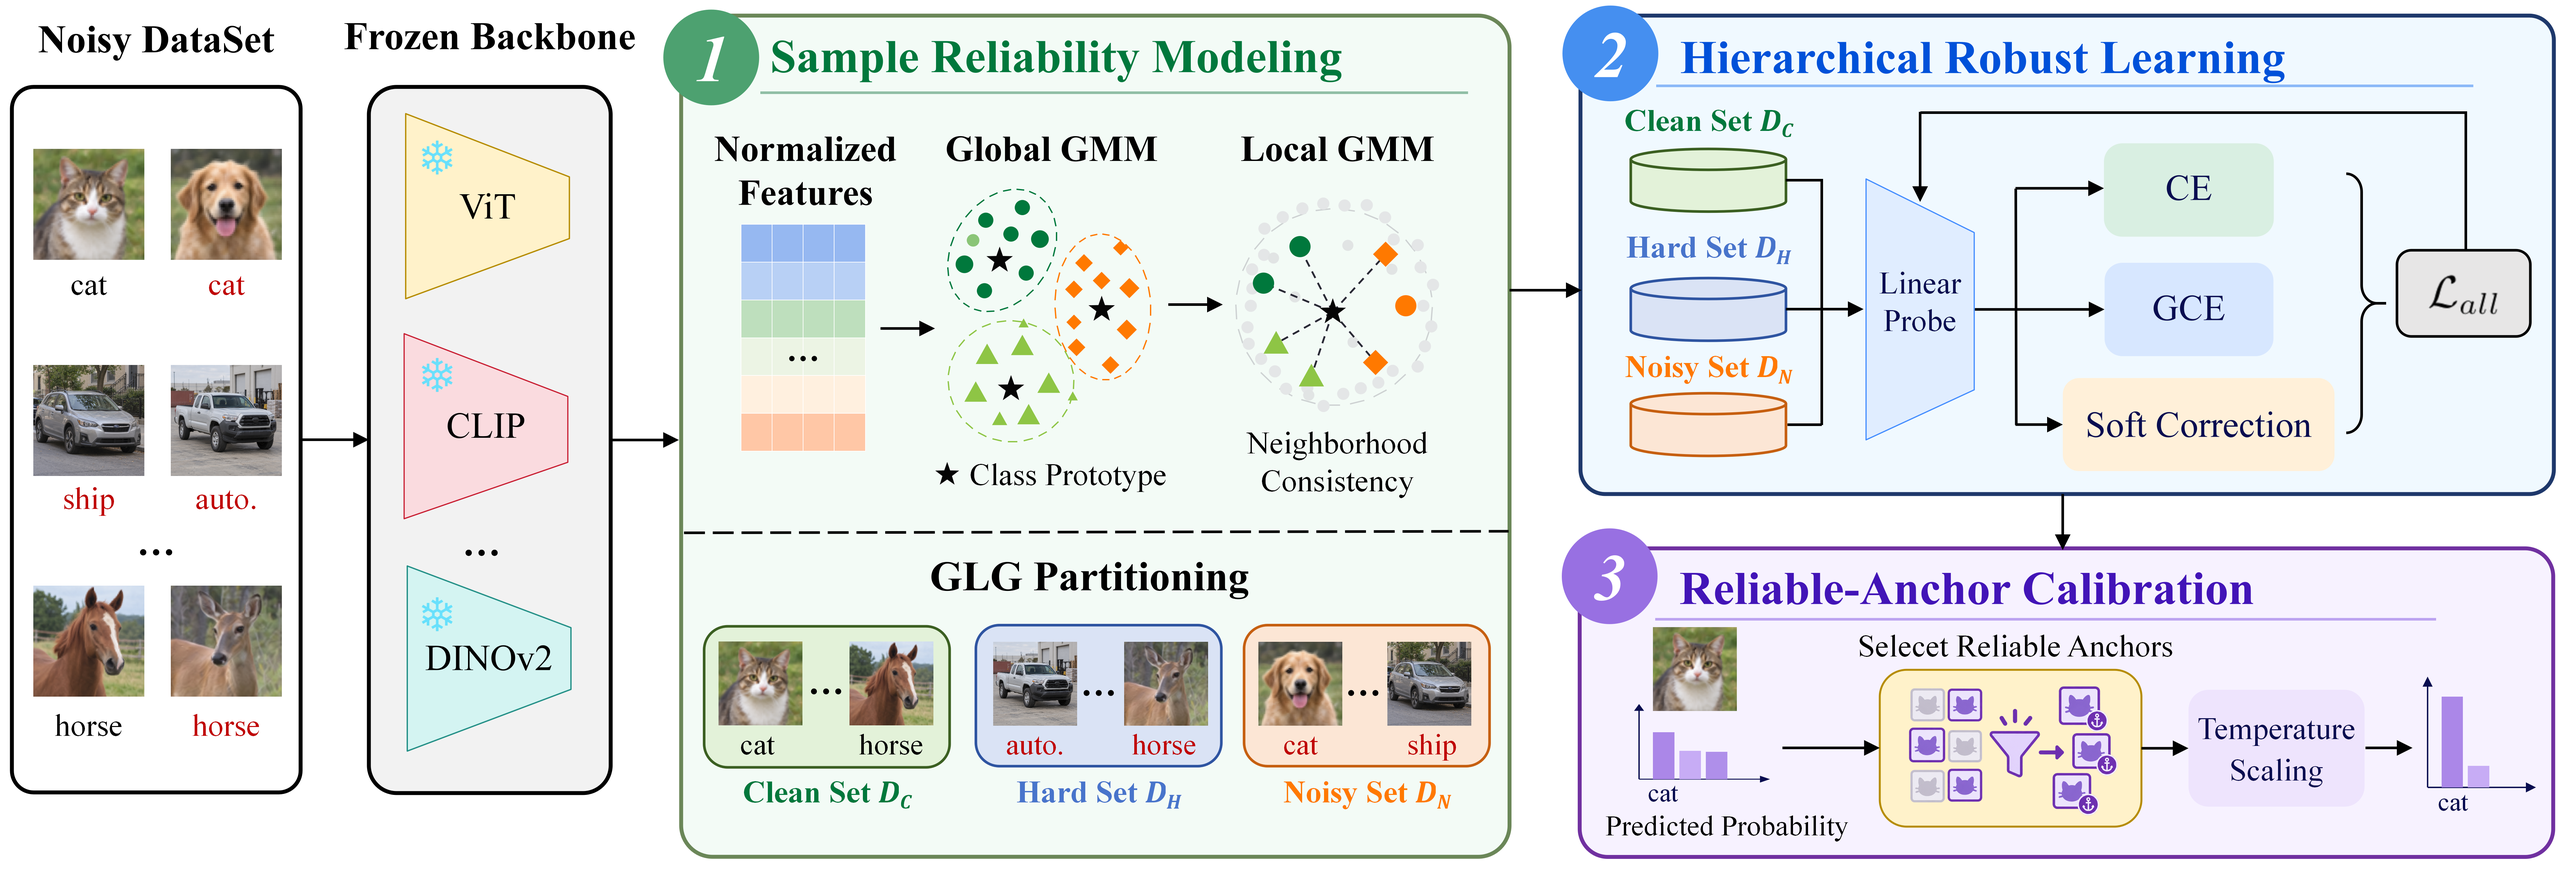
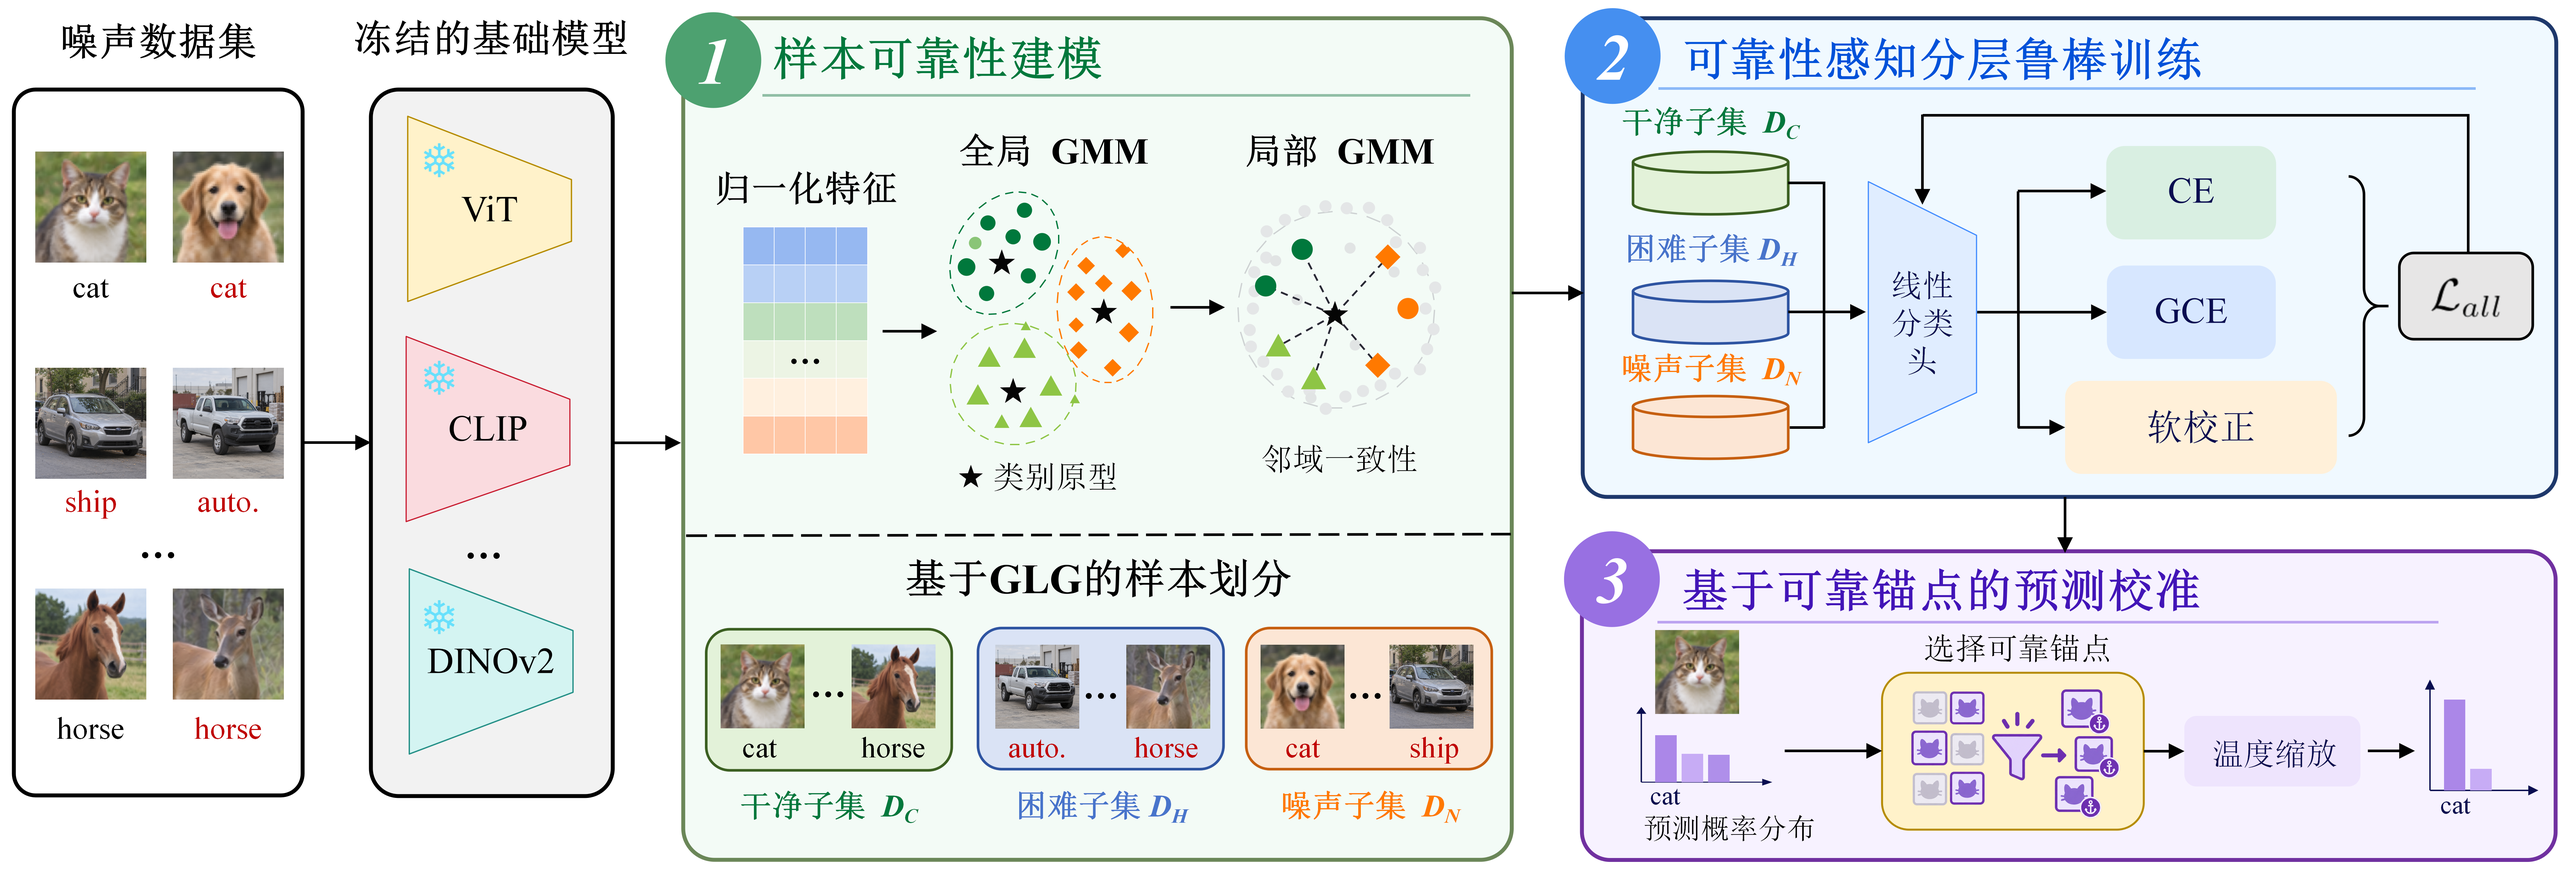
Update README for revised journal submission

diff --git a/README.md b/README.md
@@ -1,10 +1,10 @@
-# Learning with Noisy Labels in Foundation Model Settings via Sample Reliability Modeling
+# Reliability-Aware Learning with Noisy Labels in Foundation Model Settings
 
-Official PyTorch implementation of **FM-SRM**, a frozen-foundation-model framework for learning with noisy labels through sample reliability modeling.
+Official PyTorch implementation of **FM-SRM**, a reliability-aware method for learning with noisy labels in frozen foundation model settings.
 
 ## Abstract
 
-Label noise degrades data quality and model generalization, and learning with noisy labels (LNL) aims to mitigate the impact of incorrect supervision. With the development of pretrained foundation models, their stable and discriminative representations provide a new basis for LNL. However, most existing methods rely on end-to-end training dynamics on noisy data and are difficult to adapt directly to frozen foundation models, while existing foundation-model-based methods typically use coarse sample filtering and underexploit the reliability information in pretrained features. To address these issues, we propose a sample-reliability-based LNL method for foundation models that effectively exploits frozen pretrained features for efficient sample partitioning and robust training. First, global class relationships and local neighborhood structures are jointly exploited to hierarchically partition training samples into Clean, Hard, and Noisy subsets. Second, a lightweight linear classifier applies differentiated supervision according to sample reliability for robust utilization of different samples. Meanwhile, calibration anchors are constructed from highly reliable samples to further calibrate predictive probabilities. Theoretically, the method is analyzed from the perspectives of effective supervision bias and model learning error. Experiments across various foundation models and noise settings demonstrate stable noise detection and robust classification performance, validating the effectiveness and applicability of the proposed method.
+Label noise degrades the quality of training data for deep learning and impairs model generalization. Label-noise learning aims to mitigate the adverse effects of erroneous supervision during model training. With the rapid development of pretrained foundation models, frozen pretrained representations provide a relatively stable feature space for assessing sample reliability. However, most existing methods rely on end-to-end training with noisy data and are therefore difficult to directly adapt to scenarios with frozen foundation models. Existing foundation-model-based methods, meanwhile, often adopt relatively coarse sample selection strategies and do not fully exploit the reliability information embedded in pretrained representations. To address these limitations, we propose a reliability-aware label-noise learning method for foundation-model settings that integrates sample reliability estimation with differentiated robust learning and prediction calibration. First, in the frozen pretrained feature space, sample reliability is modeled using a global prototype margin and local neighborhood consistency, based on which the training samples are partitioned into clean, noisy, and hard subsets. Second, a lightweight linear classification head is trained with differentiated supervision according to sample reliability, enabling robust utilization of samples with different reliability levels. Meanwhile, reliable anchors are constructed from highly reliable samples to calibrate the predicted probabilities. Theoretically, we analyze the rationale of the proposed method from the perspectives of supervision bias and model learning error. Experimental results demonstrate that the proposed method achieves stable noise detection and robust classification performance across a variety of foundation models and noise settings, validating its effectiveness and applicability. The reproduction code is publicly available at [SenyuHou/FM-SRM](https://github.com/SenyuHou/FM-SRM).
 
 ## Framework
 
@@ -13,8 +13,8 @@ Label noise degrades data quality and model generalization, and learning with no
 FM-SRM has three stages:
 
 1. **Sample reliability modeling:** frozen representations, a global prototype-margin GMM, and local neighborhood consistency partition noisy training samples into Clean, Hard, and Noisy subsets.
-2. **Hierarchical robust learning:** a linear probe applies CE to Clean samples, fixed GCE (`q=0.7`) to Hard samples, and prototype-based soft correction to Noisy samples.
-3. **Reliable-anchor calibration:** high-reliability Clean anchors estimate a scalar post-hoc temperature without clean training labels or test-label tuning.
+2. **Reliability-aware hierarchical robust learning:** a linear probe applies CE to Clean samples, fixed GCE (`q=0.7`) to Hard samples, and prototype-based soft correction to Noisy samples.
+3. **Prediction calibration with reliable anchors:** high-reliability Clean anchors estimate a scalar post-hoc temperature without clean training labels or test-label tuning.
 
 ## 1. Preparing the Python Environment
 
@@ -128,7 +128,7 @@ If you find this work useful, please consider citing:
 
 ```bibtex
 @misc{hou2026fmsrm,
-  title  = {Learning with Noisy Labels in Foundation Model Settings via Sample Reliability Modeling},
+  title  = {Reliability-Aware Learning with Noisy Labels in Foundation Model Settings},
   author = {Senyu Hou and Gaoxia Jiang and Wenjian Wang},
   year   = {2026},
   note   = {Code available at https://github.com/SenyuHou/FM-SRM}
